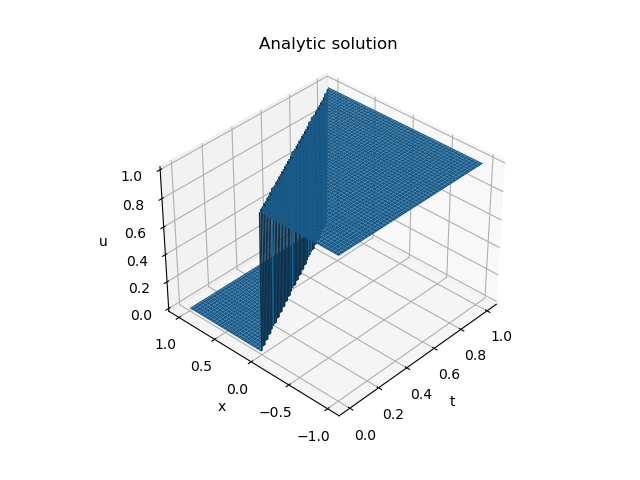
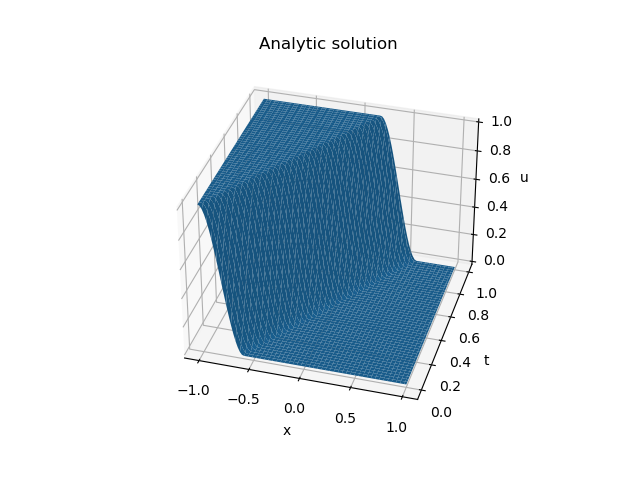
better analytic solution presentation, and integrate.py doco

diff --git a/integrate.py b/integrate.py
@@ -13,6 +13,10 @@ tf.keras.utils.set_random_seed(12)
 # This is different than a usual nonlinear regression neural network, where the values,
 # u, are known at certain x points, and the NN is trained to produce these values.
 # This code utilizes TensorFlow's automatic differentiation
+# However, the implementation deliberately tries to use an approach that is as simple
+# as possible.  For instance, the neural network descent process does not utilize the
+# automatic derivatives of the neural network with respect to its internal parameters
+# in a custom gradient descent algorithm: rather, the bulk-standard SGD is used.
 #########################################################################################
 
 X = tf.constant(np.linspace(0, 2 * np.pi, 1000), dtype = tf.float32) # domain of the problem
@@ -33,20 +37,11 @@ true_integral = value_at_0 + tf.math.sin(X)                          # for compa
 #true_integral = value_at_0 + tf.math.log(X + 0.5) - tf.math.log(0.5) # for comparing the results
 
 #########################################################################################
-# The code works by forming the loss function, which is a weighted sum of:
+# The code works by minimising the loss function, which is a weighted sum of:
 # - loss_bdy, which attempts to ensure that u(X[0]) - value_at_zero = 0, and
 # - loss_de, which attempts to ensure that du/dx - fcn = 0 at all the points defined by X
 # The relative weighting of each term obviously impacts the outcome.
 #########################################################################################
-
-@tf.function # decorate for speed
-def loss(ytrue, ypred):
-    ''' The loss used by the training algorithm.  Note that ytrue and ypred are not used,
-    but TensorFlow specifies these arguments
-    '''
-    bdy_weight = 1
-    de_weight = 1
-    return bdy_weight * loss_bdy(X, value_at_0) + de_weight * loss_de(X, fcn)
 
 def loss_bdy(x, val_at_zero):
     ''' Evaluate the boundary condition, ie u(0) - val_at_zero, where u is given by the NN model
@@ -66,11 +61,20 @@ def loss_de(x, function_values):
     # The loss is just the mean-squared du/dx - function_values
     return tf.reduce_mean(tf.square(u_x - function_values))
 
-#########################################################################################
+@tf.function # decorate for speed
+def loss(ytrue, ypred):
+    ''' The loss used by the training algorithm.  Note that ytrue and ypred are not used,
+    but TensorFlow specifies these arguments
+    '''
+    bdy_weight = 1
+    de_weight = 1
+    return bdy_weight * loss_bdy(X, value_at_0) + de_weight * loss_de(X, fcn)
+
+###############################################################################################
 # The remainder is just usual neural-net stuff with Keras
 # Note, the goodness of the fit depends quite strongly on the DE (the functional form of fcn),
 # the constant of integration, the architecture of the NN, and other hyperparameters
-#########################################################################################
+###############################################################################################
 depth = 5          # depth of NN
 width = 10         # width of fully-connected NN
 activation = 'elu' # alternatives 'selu', 'softplus', 'sigmoid', 'tanh', 'elu', 'relu'

diff --git a/analytic_solution.py b/analytic_solution.py
@@ -5,22 +5,23 @@ from mpl_toolkits.mplot3d import Axes3D
 import matplotlib.pyplot as plt
 import matplotlib.animation as ani
 
-velocity = 1
+velocity = 1.2
 
 def solution(t, x):
-    return np.where(x - velocity * t <= 0, 1, 0)
+    window = 0.2
+    return np.where(x - velocity * t <= -1, 1, np.where(x - velocity * t >= -1 + 2 * window, 0, 0.5 + (x - velocity * t + 1 - window) * (np.power(x - velocity * t + 1 - window, 2) - 3 * np.power(window, 2)) / 4 / np.power(window, 3)))
 
 fig = plt.figure()
 ax = fig.add_subplot(111, projection = '3d')
 t = np.linspace(0, 1, 100)
 x = np.linspace(-1, 1, 100)
-T, X = np.meshgrid(t, x)
+X, T = np.meshgrid(x, t)
 u = np.array(solution(np.ravel(T), np.ravel(X)))
 U = u.reshape(X.shape)
-ax.plot_surface(T, X, U)
-ax.view_init(elev = 36, azim = -137)
-ax.set_xlabel("t")
-ax.set_ylabel("x")
+ax.plot_surface(X, T, U)
+ax.view_init(elev = 34, azim = -74)
+ax.set_xlabel("x")
+ax.set_ylabel("t")
 ax.set_zlabel("u")
 plt.title("Analytic solution")
 plt.savefig("analytic_solution.png")
